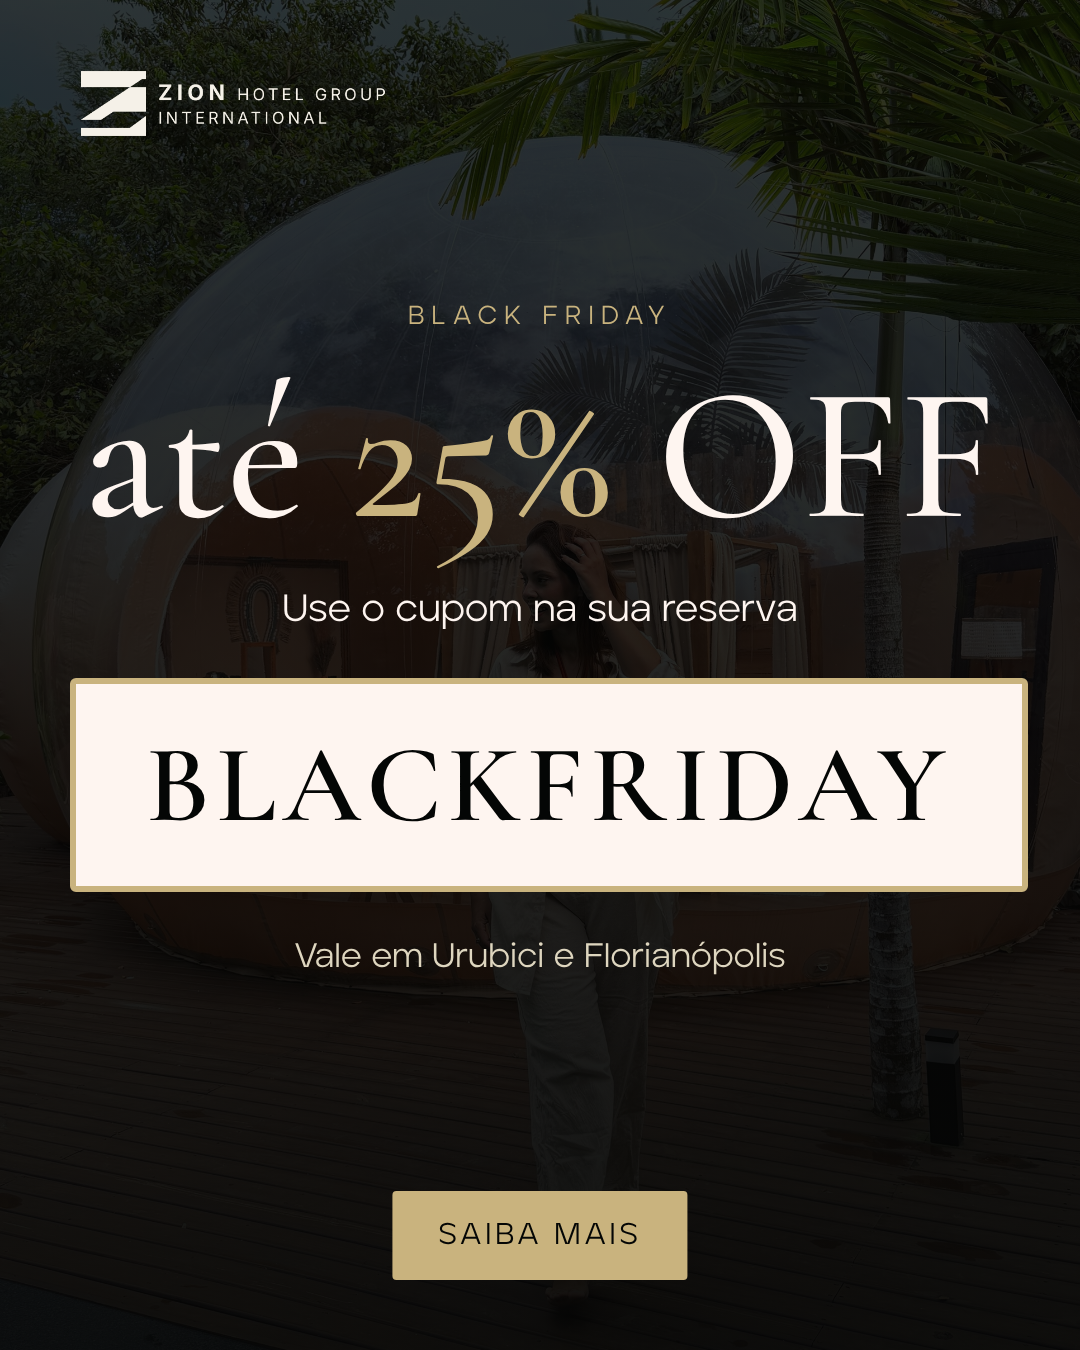
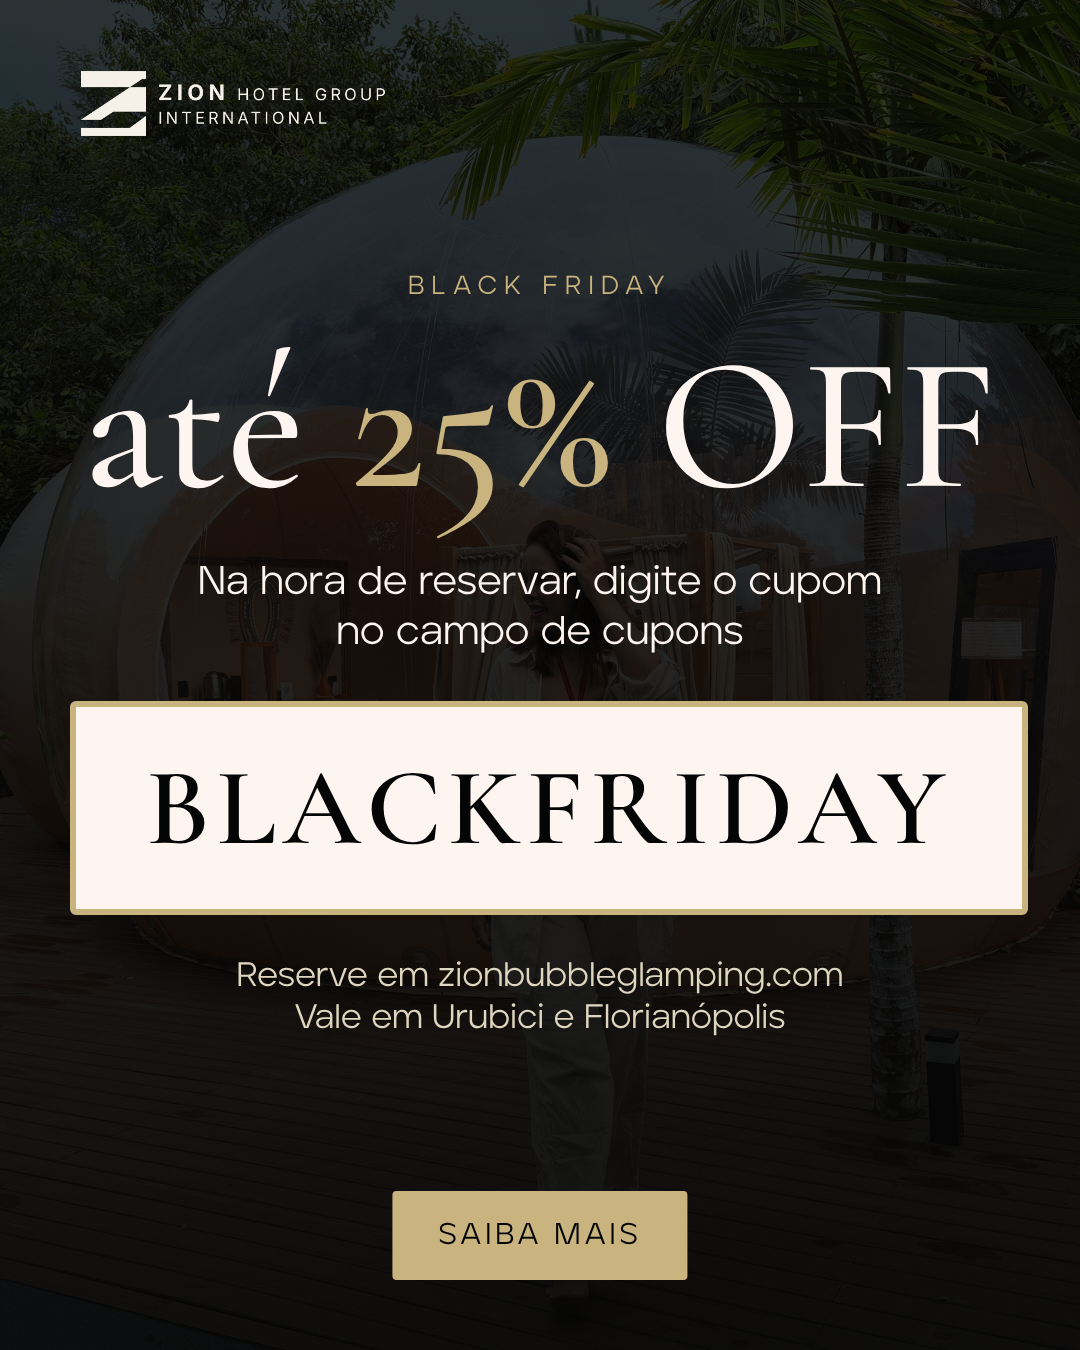
Black Friday: card 5 com instrucao de onde digitar o cupom e texto do anuncio atualizado
Claude-Session: https://claude.ai/code/session_01BzUk5cx79ALwBTnGL8houN

diff --git a/producao/ads/black-friday-2026/carrossel-01/TEXTOS.md b/producao/ads/black-friday-2026/carrossel-01/TEXTOS.md
@@ -6,10 +6,12 @@ Link: <SITE>?utm_source=meta&utm_medium=paid&utm_campaign=black-friday-2026&utm_
 
 ## Texto principal
 Black Friday Zion: até 25% OFF em Urubici e Florianópolis.
-Use o cupom BLACKFRIDAY na sua reserva e viva uma noite dentro de uma bolha.
+Na hora de reservar, digite o cupom BLACKFRIDAY no campo de cupons e veja o desconto.
 
 ## Título (por card)
 1 Black Friday: até 25% OFF · 2 Uma noite dentro de uma bolha · 3 Momentos que ficam · 4 Duas unidades, um jeito Zion · 5 Cupom BLACKFRIDAY
+
+Cupom BLACKFRIDAY (uma palavra): sem validade, vale para reservas em qualquer data, digitado no campo de cupons do Omnibees.
 
 ## Pendente de Bruno
 - Validade da promoção e período de estadias válido (não coloquei data na arte)
